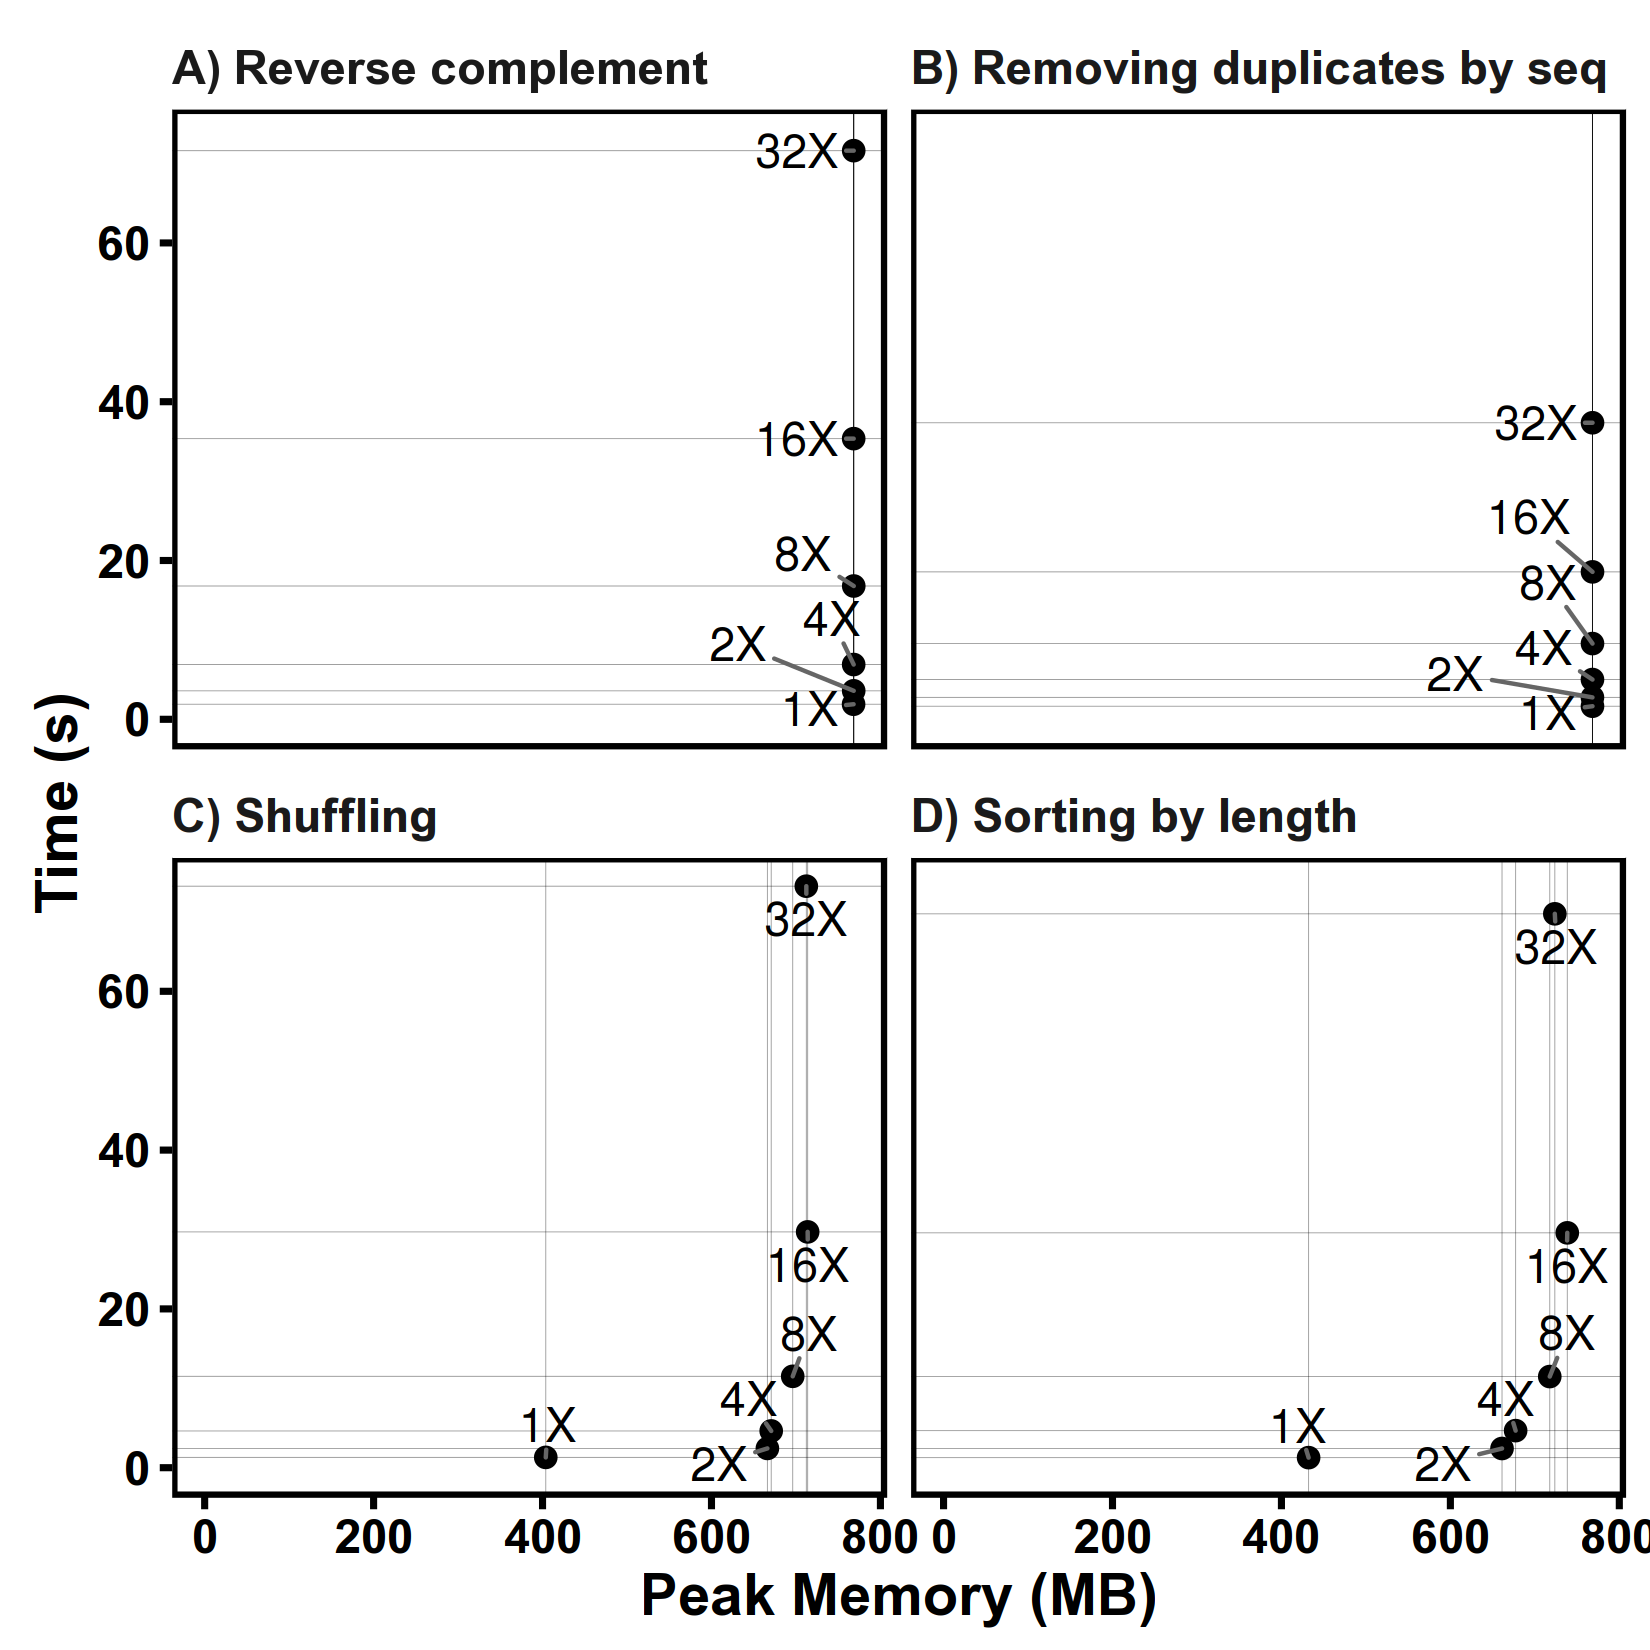
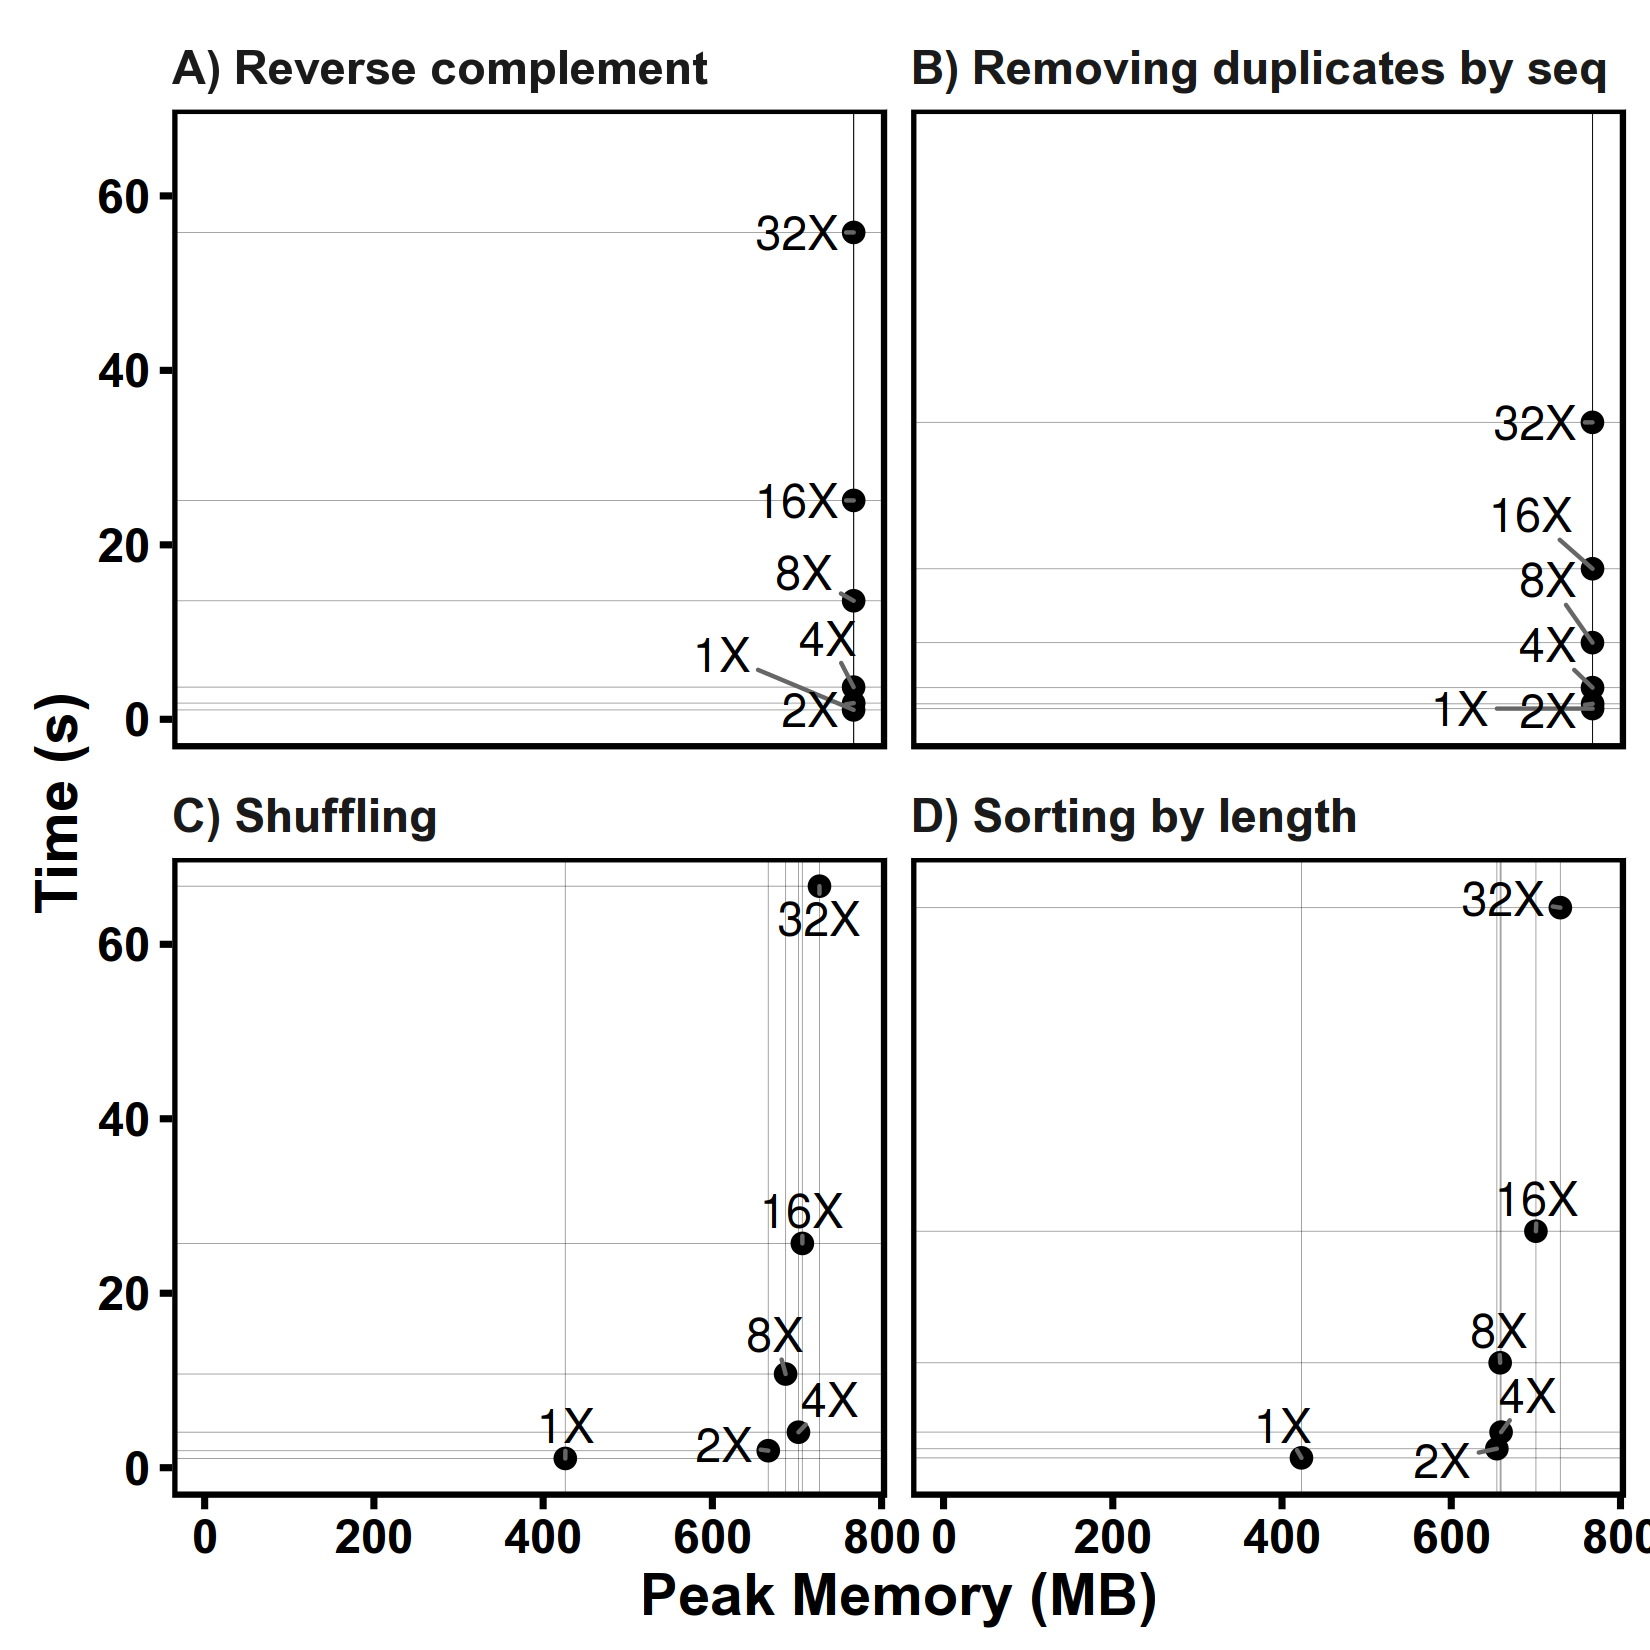
v0.3.1.1

diff --git a/index.html b/index.html
@@ -4,12 +4,12 @@
         <meta charset="utf-8">
         <meta http-equiv="X-UA-Compatible" content="IE=edge">
         <meta name="viewport" content="width=device-width, initial-scale=1.0">
-        <meta name="description" content="SeqKit - a cross-platform and efficient toolkit for FASTA/Q file manipulation">
+        <meta name="description" content="SeqKit - a cross-platform and ultrafast toolkit for FASTA/Q file manipulation">
         <meta name="author" content="Wei Shen">
         
         <link rel="shortcut icon" href="./img/favicon.ico">
 
-	<title>SeqKit - FASTA/Q kit</title>
+	<title>SeqKit - Ultrafast FASTA/Q kit</title>
 
         <link href="./css/bootstrap-custom.min.css" rel="stylesheet">
         <link href="./css/font-awesome-4.5.0.css" rel="stylesheet">
@@ -53,7 +53,7 @@
             
 
             <!-- Main title -->
-            <a class="navbar-brand" href=".">SeqKit - FASTA/Q kit</a>
+            <a class="navbar-brand" href=".">SeqKit - Ultrafast FASTA/Q kit</a>
         </div>
 
         <!-- Expanded navigation -->
@@ -139,7 +139,7 @@
                 <div class="col-md-3"><div class="bs-sidebar hidden-print affix well" role="complementary">
     <ul class="nav bs-sidenav">
     
-        <li class="main active"><a href="#seqkit-a-cross-platform-and-efficient-toolkit-for-fastaq-file-manipulation">SeqKit - a cross-platform and efficient toolkit for FASTA/Q file manipulation</a></li>
+        <li class="main active"><a href="#seqkit-a-cross-platform-and-ultrafast-toolkit-for-fastaq-file-manipulation">SeqKit - a cross-platform and ultrafast toolkit for FASTA/Q file manipulation</a></li>
         
             <li><a href="#introduction">Introduction</a></li>
         
@@ -166,7 +166,7 @@
 </div></div>
                 <div class="col-md-9" role="main">
 
-<h1 id="seqkit-a-cross-platform-and-efficient-toolkit-for-fastaq-file-manipulation">SeqKit - a cross-platform and efficient toolkit for FASTA/Q file manipulation</h1>
+<h1 id="seqkit-a-cross-platform-and-ultrafast-toolkit-for-fastaq-file-manipulation">SeqKit - a cross-platform and ultrafast toolkit for FASTA/Q file manipulation</h1>
 <p>Documents: <a href="http://shenwei356.github.io/seqkit">http://shenwei356.github.io/seqkit</a></p>
 <p>Source code: <a href="https://github.com/shenwei356/seqkit">https://github.com/shenwei356/seqkit</a></p>
 <p>Latest version: <a href="https://github.com/shenwei356/seqkit/releases"><img alt="Latest Version" src="https://img.shields.io/github/release/shenwei356/seqkit.svg?style=flat" /></a></p>
@@ -178,7 +178,7 @@ Existed tools only implemented parts of the functions,
 and some of them are only available for specific operating systems.
 Furthermore, the complicated installation process of dependencies packages and
 running environment also make them less friendly to common users.</p>
-<p>SeqKit is a cross-platform, efficient, and practical FASTA/Q manipulations tool
+<p>SeqKit is a cross-platform, ultrafast, and practical FASTA/Q manipulations tool
 that is friendly for researchers to complete wide ranges of FASTA/Q file processing.
 The toolkit supports plain or gzip-compressed input and output
 from either standard stream or files,
@@ -630,10 +630,10 @@ file          format  type  num_seqs        sum_len  min_len       avg_len      
 dataset_A.fa  FASTA   DNA     67,748  2,807,643,808       56      41,442.5    5,976,145                  
 dataset_B.fa  FASTA   DNA        194  3,099,750,718      970  15,978,096.5  248,956,422
 </code></pre>
-<p>SeqKit version: v0.3.1</p>
+<p>SeqKit version: v0.3.1.1</p>
 <p><img alt="benchmark-5tests.tsv.png" src="./benchmark/benchmark.5tests.tsv.png" /></p>
 <h2 id="citation">Citation</h2>
-<p><strong>W Shen</strong>, S Le, Y Li*, F Hu*. seqkit: a cross-platform and efficient toolkit for FASTA/Q file manipulation.
+<p><strong>W Shen</strong>, S Le, Y Li*, F Hu*. SeqKit: a cross-platform and ultrafast toolkit for FASTA/Q file manipulation.
 <strong><em>PLOS ONE</em></strong>. revised.</p>
 <h2 id="contact">Contact</h2>
 <p>Email me for any problem when using seqkit. shenwei356(at)gmail.com</p>
@@ -687,5 +687,5 @@ propose new functions or ask for help.</p>
 
 <!--
 MkDocs version : 0.15.3
-Build Date UTC : 2016-08-03 15:46:10.174217
+Build Date UTC : 2016-08-07 07:28:35.828532
 -->

diff --git a/benchmark/index.html b/benchmark/index.html
@@ -9,7 +9,7 @@
         
         <link rel="shortcut icon" href="../img/favicon.ico">
 
-	<title>Benchmark - SeqKit - FASTA/Q kit</title>
+	<title>Benchmark - SeqKit - Ultrafast FASTA/Q kit</title>
 
         <link href="../css/bootstrap-custom.min.css" rel="stylesheet">
         <link href="../css/font-awesome-4.5.0.css" rel="stylesheet">
@@ -53,7 +53,7 @@
             
 
             <!-- Main title -->
-            <a class="navbar-brand" href="..">SeqKit - FASTA/Q kit</a>
+            <a class="navbar-brand" href="..">SeqKit - Ultrafast FASTA/Q kit</a>
         </div>
 
         <!-- Expanded navigation -->
@@ -139,31 +139,57 @@
                 <div class="col-md-3"><div class="bs-sidebar hidden-print affix well" role="complementary">
     <ul class="nav bs-sidenav">
     
-        <li class="main active"><a href="#benchmark">Benchmark</a></li>
+        <li class="main active"><a href="#softwares">Softwares</a></li>
         
-            <li><a href="#softwares">Softwares</a></li>
+    
+        <li class="main "><a href="#features">Features</a></li>
         
-            <li><a href="#features">Features</a></li>
+    
+        <li class="main "><a href="#datasets">Datasets</a></li>
         
-            <li><a href="#datasets">Datasets</a></li>
+            <li><a href="#dataset_afa-large-number-of-short-sequences">dataset_A.fa - large number of short sequences</a></li>
         
-            <li><a href="#platform">Platform</a></li>
+            <li><a href="#dataset_bfa-small-number-of-large-sequences">dataset_B.fa - small number of large sequences</a></li>
         
-            <li><a href="#tests">Tests</a></li>
+            <li><a href="#sequence-id-list">Sequence ID list</a></li>
         
-            <li><a href="#results">Results</a></li>
+            <li><a href="#bed-file">BED file</a></li>
+        
+    
+        <li class="main "><a href="#platform">Platform</a></li>
+        
+    
+        <li class="main "><a href="#tests">Tests</a></li>
+        
+            <li><a href="#test-1-reverse-complement">Test 1. Reverse Complement</a></li>
+        
+            <li><a href="#test-2-extracting-sequences-by-id-list">Test 2. Extracting sequences by ID list</a></li>
+        
+            <li><a href="#test-3-sampling-by-number">Test 3. Sampling by number</a></li>
+        
+            <li><a href="#test-4-removing-duplicates-by-sequence-content">Test 4. Removing duplicates by sequence content</a></li>
+        
+            <li><a href="#test-5-subsequence-with-bed-file">Test 5. Subsequence with BED file</a></li>
+        
+    
+        <li class="main "><a href="#results">Results</a></li>
+        
+            <li><a href="#test-of-multiple-threads">Test of multiple threads:</a></li>
+        
+            <li><a href="#tests-on-different-file-sizes">Tests on different file sizes</a></li>
         
     
     </ul>
 </div></div>
                 <div class="col-md-9" role="main">
 
-<h1 id="benchmark">Benchmark</h1>
+<pre><code># Benchmark
+</code></pre>
 <h2 id="softwares">Softwares</h2>
 <ol>
 <li><a href="https://github.com/shenwei356/seqkit">seqkit</a>. (Go).
-   Version <a href="https://github.com/shenwei356/seqkit/releases/tag/v0.3.1">v0.3.1</a>.
-   Compiled with Go 1.6.3.</li>
+   Version <a href="https://github.com/shenwei356/seqkit/releases/tag/v0.3.1.1">v0.3.1.1</a>.
+   Compiled with Go 1.7rc5.</li>
 <li><a href="https://github.com/jimhester/fasta_utilities">fasta_utilities</a>. (Perl).
    Version <a href="https://github.com/jimhester/fasta_utilities/tree/3dcc0bc6bf1e97839476221c26984b1789482579">3dcc0bc</a>.
    Lots of dependencies to install.</li>
@@ -515,7 +541,7 @@ and average time and peak memory ware used for plotting.</p>
 <h3 id="test-5-subsequence-with-bed-file">Test 5. Subsequence with BED file</h3>
 <p><a href="https://github.com/shenwei356/seqkit/blob/master/benchmark/run_benchmark_05_subseq_with_bed.sh">Commands</a></p>
 <h2 id="results">Results</h2>
-<p>seqkit version: v0.3.1</p>
+<p>seqkit version: v0.3.1.1</p>
 <p><img alt="benchmark-5tests.tsv.png" src="../benchmark/benchmark.5tests.tsv.png" /></p>
 <h3 id="test-of-multiple-threads">Test of multiple threads:</h3>
 <p>From the results, 2 threads/CPU is enough, so the default threads of seqkit is 2.</p>

diff --git a/download/index.html b/download/index.html
@@ -9,7 +9,7 @@
         
         <link rel="shortcut icon" href="../img/favicon.ico">
 
-	<title>Download - SeqKit - FASTA/Q kit</title>
+	<title>Download - SeqKit - Ultrafast FASTA/Q kit</title>
 
         <link href="../css/bootstrap-custom.min.css" rel="stylesheet">
         <link href="../css/font-awesome-4.5.0.css" rel="stylesheet">
@@ -53,7 +53,7 @@
             
 
             <!-- Main title -->
-            <a class="navbar-brand" href="..">SeqKit - FASTA/Q kit</a>
+            <a class="navbar-brand" href="..">SeqKit - Ultrafast FASTA/Q kit</a>
         </div>
 
         <!-- Expanded navigation -->
@@ -157,7 +157,7 @@
  executable binary files <strong>for most popular operating systems</strong> are freely available
   in <a href="https://github.com/shenwei356/seqkit/releases">release</a> page.</p>
 <h2 id="latest-version">Latest Version</h2>
-<p><a href="https://github.com/shenwei356/seqkit/releases/tag/v0.3.1">SeqKit v0.3.1</a></p>
+<p><a href="https://github.com/shenwei356/seqkit/releases/tag/v0.3.1.1">SeqKit v0.3.1.1</a></p>
 <p><strong><em>64-bit versions are highly recommended.</em></strong></p>
 <h3 id="links">Links</h3>
 <ul>
@@ -250,6 +250,10 @@ And then:</p>
 </code></pre>
 <h2 id="release-history">Release History</h2>
 <ul>
+<li><a href="https://github.com/shenwei356/seqkit/releases/tag/v0.3.1.1">SeqKit v0.3.1.1</a><ul>
+<li>compile with go1.7rc5, with <strong><em>higher performance and smaller size of binary file</em></strong></li>
+</ul>
+</li>
 <li><a href="https://github.com/shenwei356/seqkit/releases/tag/v0.3.1">SeqKit v0.3.1</a><ul>
 <li>improve speed of <code>seqkit locate</code></li>
 </ul>

diff --git a/usage/index.html b/usage/index.html
@@ -9,7 +9,7 @@
         
         <link rel="shortcut icon" href="../img/favicon.ico">
 
-	<title>Usage - SeqKit - FASTA/Q kit</title>
+	<title>Usage - SeqKit - Ultrafast FASTA/Q kit</title>
 
         <link href="../css/bootstrap-custom.min.css" rel="stylesheet">
         <link href="../css/font-awesome-4.5.0.css" rel="stylesheet">
@@ -53,7 +53,7 @@
             
 
             <!-- Main title -->
-            <a class="navbar-brand" href="..">SeqKit - FASTA/Q kit</a>
+            <a class="navbar-brand" href="..">SeqKit - Ultrafast FASTA/Q kit</a>
         </div>
 
         <!-- Expanded navigation -->
@@ -268,9 +268,9 @@ given by flag <code>-s</code> (<code>--rand-seed</code>). This makes sure that s
 reproduced in different environments with same random seed.</p>
 <h2 id="seqkit">seqkit</h2>
 <p>Usage</p>
-<pre><code>seqkit -- a cross-platform and efficient toolkit for FASTA/Q file manipulation
+<pre><code>SeqKit -- a cross-platform and ultrafast toolkit for FASTA/Q file manipulation
 
-Version: 0.3.1
+Version: 0.3.1.1
 
 Author: Wei Shen &lt;shenwei356@gmail.com&gt;
 

diff --git a/404.html b/404.html
@@ -4,12 +4,12 @@
         <meta charset="utf-8">
         <meta http-equiv="X-UA-Compatible" content="IE=edge">
         <meta name="viewport" content="width=device-width, initial-scale=1.0">
-        <meta name="description" content="SeqKit - a cross-platform and efficient toolkit for FASTA/Q file manipulation">
+        <meta name="description" content="SeqKit - a cross-platform and ultrafast toolkit for FASTA/Q file manipulation">
         <meta name="author" content="Wei Shen">
         
         <link rel="shortcut icon" href="./img/favicon.ico">
 
-	<title>SeqKit - FASTA/Q kit</title>
+	<title>SeqKit - Ultrafast FASTA/Q kit</title>
 
         <link href="./css/bootstrap-custom.min.css" rel="stylesheet">
         <link href="./css/font-awesome-4.5.0.css" rel="stylesheet">
@@ -53,7 +53,7 @@
             
 
             <!-- Main title -->
-            <a class="navbar-brand" href=".">SeqKit - FASTA/Q kit</a>
+            <a class="navbar-brand" href=".">SeqKit - Ultrafast FASTA/Q kit</a>
         </div>
 
         <!-- Expanded navigation -->

diff --git a/yanlilab/index.html b/yanlilab/index.html
@@ -9,7 +9,7 @@
         
         <link rel="shortcut icon" href="../img/favicon.ico">
 
-	<title>YanLi Lab - SeqKit - FASTA/Q kit</title>
+	<title>YanLi Lab - SeqKit - Ultrafast FASTA/Q kit</title>
 
         <link href="../css/bootstrap-custom.min.css" rel="stylesheet">
         <link href="../css/font-awesome-4.5.0.css" rel="stylesheet">
@@ -53,7 +53,7 @@
             
 
             <!-- Main title -->
-            <a class="navbar-brand" href="..">SeqKit - FASTA/Q kit</a>
+            <a class="navbar-brand" href="..">SeqKit - Ultrafast FASTA/Q kit</a>
         </div>
 
         <!-- Expanded navigation -->

diff --git a/tutorial/index.html b/tutorial/index.html
@@ -9,7 +9,7 @@
         
         <link rel="shortcut icon" href="../img/favicon.ico">
 
-	<title>Tutorial - SeqKit - FASTA/Q kit</title>
+	<title>Tutorial - SeqKit - Ultrafast FASTA/Q kit</title>
 
         <link href="../css/bootstrap-custom.min.css" rel="stylesheet">
         <link href="../css/font-awesome-4.5.0.css" rel="stylesheet">
@@ -53,7 +53,7 @@
             
 
             <!-- Main title -->
-            <a class="navbar-brand" href="..">SeqKit - FASTA/Q kit</a>
+            <a class="navbar-brand" href="..">SeqKit - Ultrafast FASTA/Q kit</a>
         </div>
 
         <!-- Expanded navigation -->
